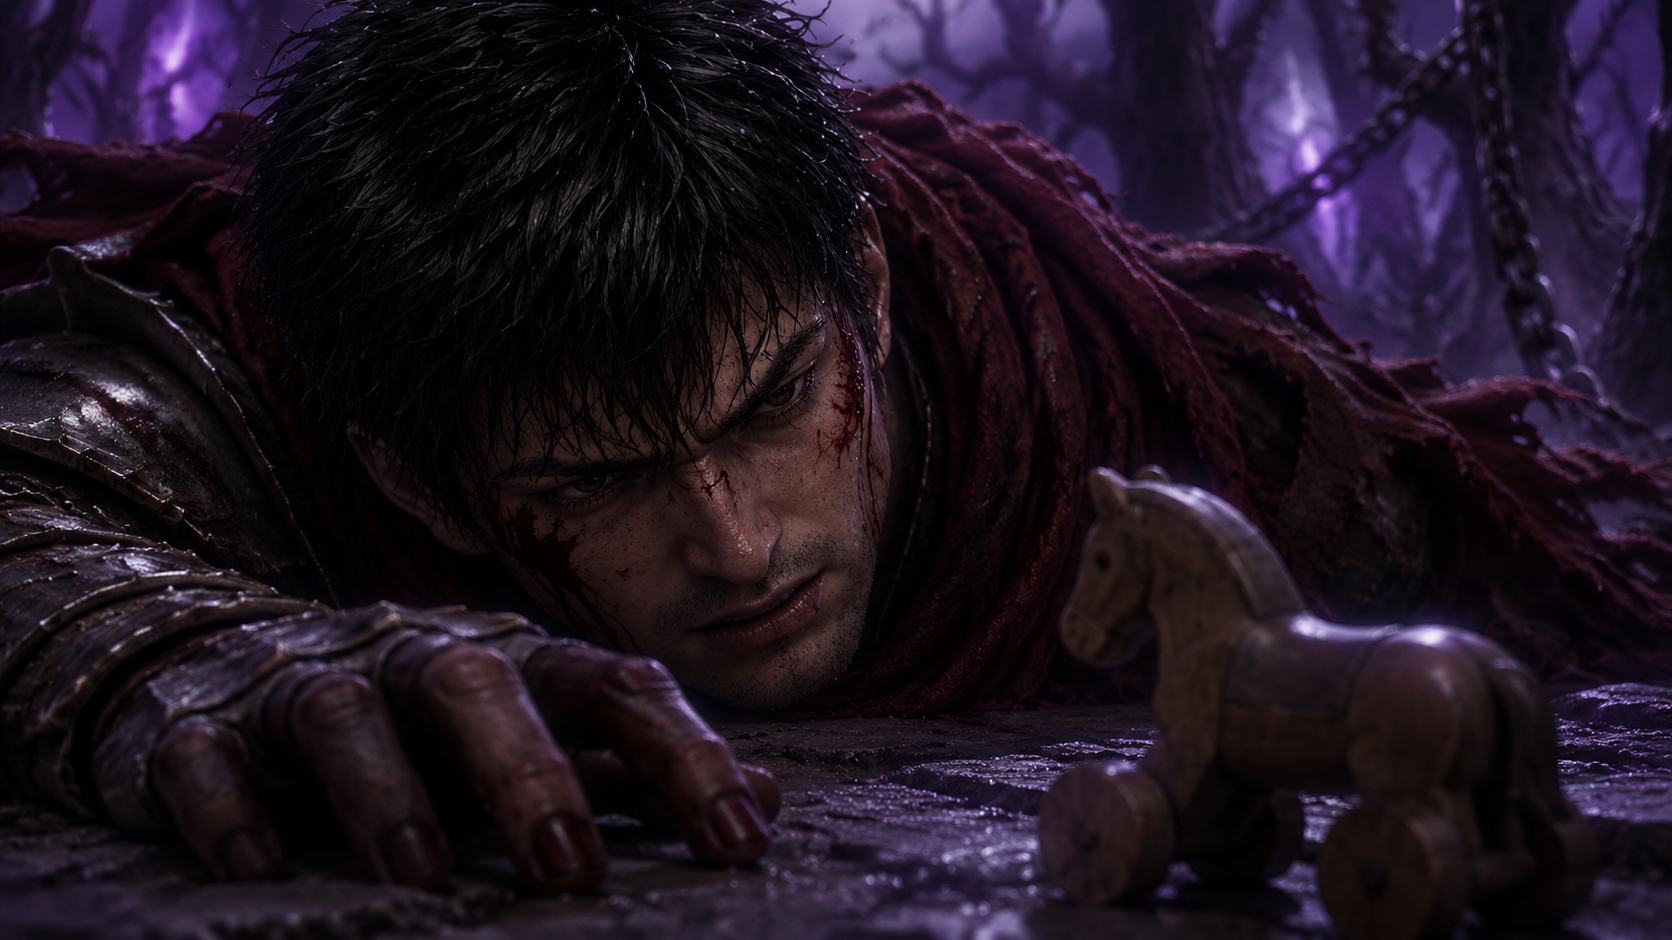
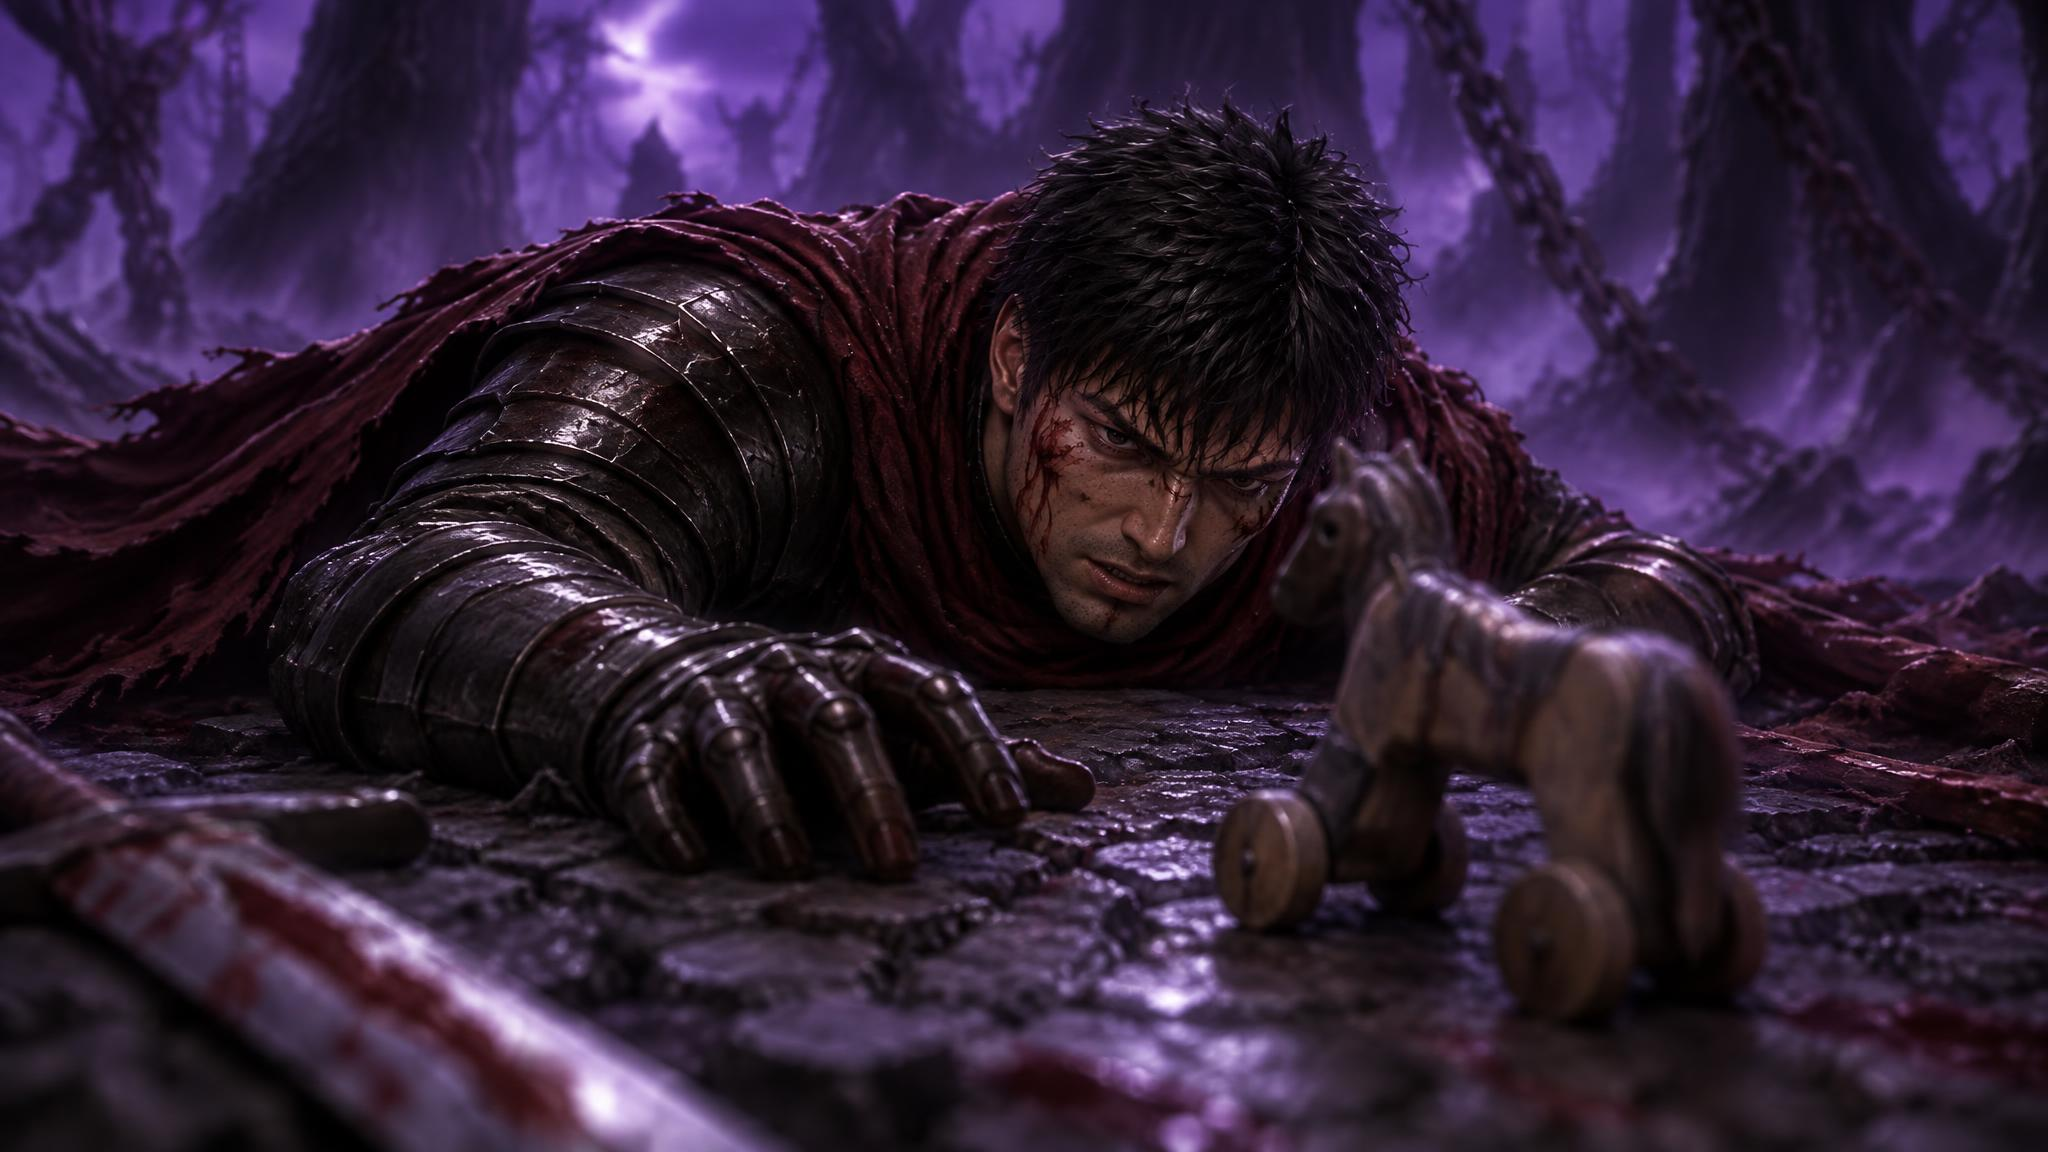
art(intro): redo cut 06 with gauntlets to match 05/07; close 02 resolution item
Image only; cutscene cache key bump deferred (game.html under other teams' edits).

diff --git a/docs/17게임아트팀/ART_TEAM_MASTER.md b/docs/17게임아트팀/ART_TEAM_MASTER.md
@@ -87,7 +87,7 @@
 | 00·01·02·03·08·09 | 네메시아 | ✅ 디자인 시트 기준 | 02만 1672×941 |
 | 04 | 목마 | ✅ | |
 | 05·19·20 | 전사(눈 안 보임) | ✅ | 초기 전사 기준(보라 눈 bust)으로 생성됐으나 눈 비노출 |
-| 06·07 | 전사(얼굴) | ✅ 평범한 눈 | 06은 07 얼굴 크롭 기준 재생성, 손이 맨손처럼 보임 |
+| 06·07 | 전사(얼굴) | ✅ 평범한 눈 | 06은 07 얼굴 크롭 기준, 2026-10-01 건틀릿 포함 재생성(2048×1152). ⚠ 캐시 키는 `intro-lock6` 그대로 — game.html이 타 팀 편집 중이라 미변경 |
 | 10·12·14·15 | 디로이 | ✅ 점 없음 | |
 | 11·13·16 | 핵터 | ✅ 점 없음 | |
 | 17·18 | 무구·악의띠 | ✅ | |
@@ -139,8 +139,9 @@
 | P2 | 출시 예정 3종(창술사·총잡이·연금술사) 초상·포스터 고화질화 — **디자인 확정(LOCK) 선행 필요** | GPT 200×6 |
 | P3 | 로딩 16·18 중복 1장 교체 | Seedream 100 |
 | ✅ | 대검전사 영상 0~5초·81~84초 전사 구간 교체 (v25, 2026-10-01) | Hailuo 250×2 |
-| P2 | 인트로 06번 전사 손이 맨손처럼 보임(건틀릿 누락) 재생성 | GPT 200 |
-| P2 | 인트로 02번만 1672×941 — 2048×1152로 재생성해 해상도 통일 | GPT 200 |
+| ✅ | 인트로 06번 건틀릿 누락 재생성·적용 (2026-10-01) | GPT 200 |
+| 대기 | 컷신 캐시 키 `intro-lock6`→`intro-lock7` (game.html·game-easy-test.html 각 1줄). game.html에 타 팀 미커밋 변경이 있어 ART가 단독 커밋 불가 — game.html 소유 팀의 다음 커밋에 포함 요청. 그전까지 06을 이미 캐시한 브라우저는 강력 새로고침 필요 | 0 |
+| 닫음 | 인트로 02번 1672×941 — 1x 확대 점검 결과 결함 없음, 컷신 cover 스케일에서 해상도 차 비가시 → 재생성 안 함 | 0 |
 | P3 | 구 전쟁 인트로 정지 이미지 잔점/신원 점검 | 점검 무료 |
 | P3 | 맵 오브젝트 양산 (맵 담당과 배치 협의) | Seedream 100/개 |
 
@@ -155,6 +156,7 @@
 | 2026-10-01 | 디로이·핵터 DESIGN LOCK, 전사 bust 교체, 로딩 2·3 펫 재생성 | MagicLight 600 |
 | 2026-10-01 | 대검전사 스토리 영상 네메시아 구간 v24 교체 (그림 2 + Hailuo 영상 2), 실제 재생기 검수 | MagicLight 900 |
 | 2026-10-01 | 대검전사 영상 v25: 전사 2컷 추가 교체, 원본에서 4구간 단일 합성, 재생기 검수 | MagicLight 500 |
+| 2026-10-01 | 인트로 06 건틀릿 재생성·적용, 02 점검 후 유지 판정 | MagicLight 200 |
 
 ### 사고 기록 (재발 방지)
 
